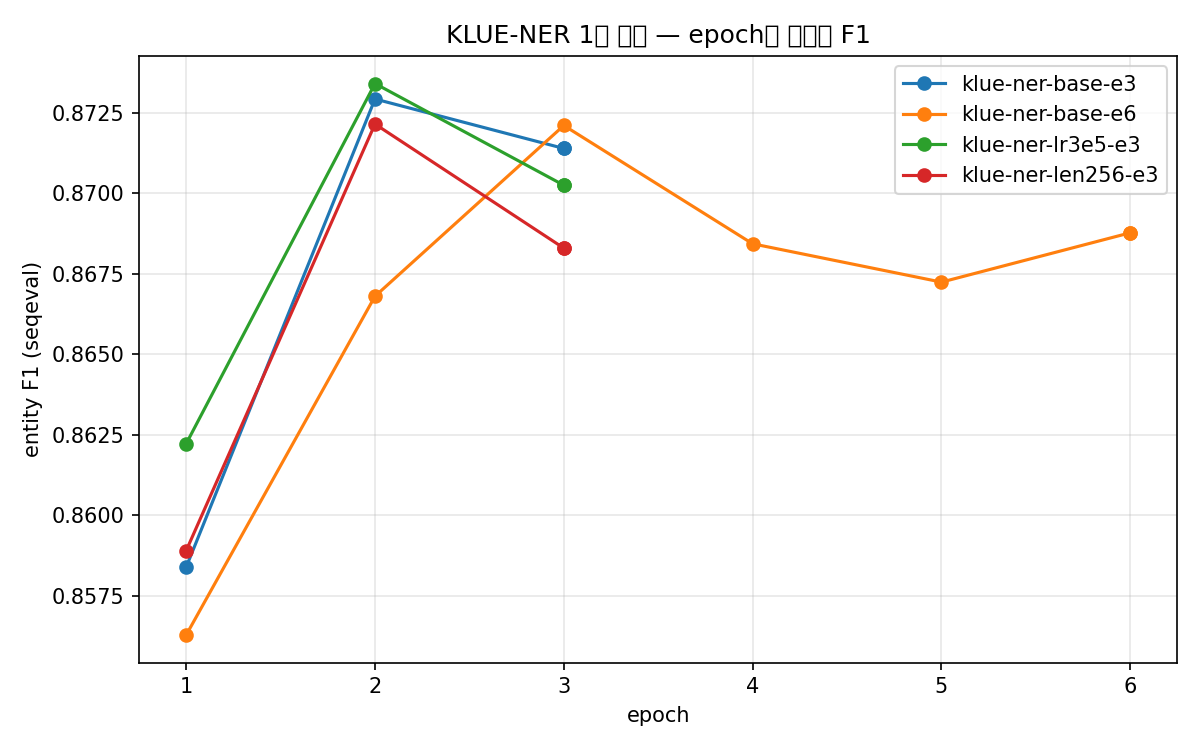
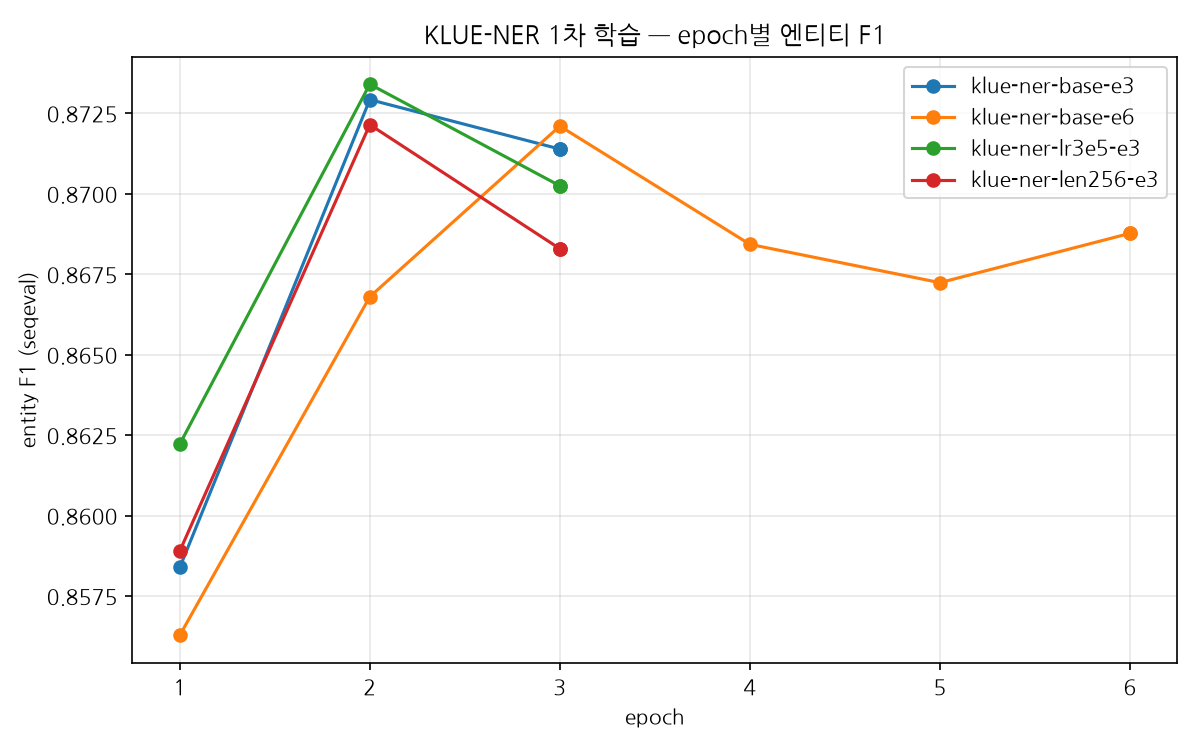
[detection-ecommerce] 공개용 주석 정리 + 실험 시각화 추가
- 코드·테스트 주석에서 일정/이력/내부 협업 언급 제거, 설계 이유만 유지
- visualize.py: 한글 폰트 설정, 하이퍼파라미터 비교·alignment 효과 그래프 추가
- figures 재생성(한글 깨짐 수정) 및 신규 2개
- .gitignore: l4/sensitive/try_predict.py 추가

diff --git a/l4/ner/visualize.py b/l4/ner/visualize.py
@@ -7,17 +7,51 @@ from __future__ import annotations
 
 import argparse
 import csv
+import glob
+import json
 from pathlib import Path
 from typing import Any
 
 import matplotlib
 
 matplotlib.use("Agg")  # 헤드리스 환경(WSL, CI)에서 화면 없이 저장만 한다
+import matplotlib.font_manager as fm
 import matplotlib.pyplot as plt
 
 from l4.ner.labels import L4_ENTITY_TYPES
 
 FIGURE_DIR = "figures"
+
+
+def _setup_korean_font() -> None:
+    """한글 라벨이 깨지지 않게 폰트를 잡는다. 없으면 경고만 하고 진행한다.
+
+    CI·WSL 기본 이미지엔 한글 폰트가 없어 제목이 두부(□)로 나온다.
+    ``apt install fonts-nanum`` 또는 ``~/.local/share/fonts`` 에 ttf를 두면 잡힌다.
+    """
+    for family in ("NanumGothic", "NanumBarunGothic", "Noto Sans CJK KR", "Malgun Gothic"):
+        try:
+            path = fm.findfont(family, fallback_to_default=False)
+        except ValueError:
+            continue
+        plt.rcParams["font.family"] = fm.FontProperties(fname=path).get_name()
+        plt.rcParams["axes.unicode_minus"] = False
+        return
+
+    patterns = (
+        "/usr/share/fonts/**/Nanum*.ttf",
+        str(Path.home() / ".local/share/fonts/*.ttf"),
+        str(Path.home() / ".fonts/*.ttf"),
+    )
+    for pattern in patterns:
+        hits = glob.glob(pattern, recursive=True)
+        if hits:
+            fm.fontManager.addfont(hits[0])
+            plt.rcParams["font.family"] = fm.FontProperties(fname=hits[0]).get_name()
+            plt.rcParams["axes.unicode_minus"] = False
+            return
+
+    print("경고: 한글 폰트 없음 — 라벨이 깨질 수 있다 (apt install fonts-nanum)")
 
 
 def _read_csv(path: Path) -> list[dict[str, str]]:
@@ -138,7 +172,109 @@ def plot_latency_tradeoff(summary: list[dict[str, str]], target: Path) -> bool:
     return True
 
 
+def plot_hparam_comparison(summary: list[dict[str, str]], target: Path) -> bool:
+    """1차 학습 4개 run의 하이퍼파라미터별 성능. 채택 run(base-e3)을 강조한다."""
+    if not summary:
+        return False
+
+    metrics = [("f1", "entity F1"), ("PS_recall", "PS recall"), ("LC_f1", "LC F1")]
+    runs = [row["run_name"] for row in summary]
+
+    figure, axes = plt.subplots(figsize=(9, 5))
+    width = 0.25
+    positions = range(len(runs))
+    for index, (key, label) in enumerate(metrics):
+        series = [_as_float(row.get(key)) or 0.0 for row in summary]
+        bars = axes.bar([p + index * width for p in positions], series, width, label=label)
+        for rect, value in zip(bars, series, strict=True):
+            axes.text(
+                rect.get_x() + rect.get_width() / 2,
+                value + 0.005,
+                f"{value:.4f}",
+                ha="center",
+                fontsize=7,
+            )
+
+    subtitles = [
+        f"{row['run_name']}\nlr={row['lr']} · ep={row['epochs']} · len={row['max_length']}"
+        for row in summary
+    ]
+    axes.set_xticks([p + width for p in positions])
+    axes.set_xticklabels(subtitles, fontsize=8)
+    axes.set_ylim(0.75, 0.95)
+    axes.set_ylabel("score")
+    axes.set_title(
+        "KLUE-NER 1차 학습 — 하이퍼파라미터별 성능\n"
+        "채택: klue-ner-base-e3 (F1 미세 손실 감수, PS recall 우선)"
+    )
+    axes.grid(axis="y", alpha=0.3)
+    axes.legend()
+    figure.tight_layout()
+    figure.savefig(target, dpi=150)
+    plt.close(figure)
+    return True
+
+
+def plot_alignment_effect(eval_path: Path, target: Path) -> bool:
+    """채택 모델에 alignment.py(조사 경계 중재) 적용 전/후 성능 비교."""
+    if not eval_path.exists():
+        return False
+    data = json.loads(eval_path.read_text(encoding="utf-8"))
+    before, after = data["before"], data["after"]
+    ceiling = data.get("ceiling_f1")
+
+    keys = [("f1", "entity F1"), ("PS_recall", "PS recall"), ("PS_f1", "PS F1"), ("LC_f1", "LC F1")]
+
+    figure, axes = plt.subplots(figsize=(9, 5))
+    width = 0.38
+    positions = range(len(keys))
+    before_vals = [before[key] for key, _ in keys]
+    after_vals = [after[key] for key, _ in keys]
+
+    b1 = axes.bar([p - width / 2 for p in positions], before_vals, width, label="적용 전")
+    b2 = axes.bar([p + width / 2 for p in positions], after_vals, width, label="적용 후")
+    for bars, vals in ((b1, before_vals), (b2, after_vals)):
+        for rect, value in zip(bars, vals, strict=True):
+            axes.text(
+                rect.get_x() + rect.get_width() / 2,
+                value + 0.004,
+                f"{value:.4f}",
+                ha="center",
+                fontsize=7,
+            )
+    for index, (key, _) in enumerate(keys):
+        delta = after[key] - before[key]
+        axes.text(
+            index,
+            max(before[key], after[key]) + 0.018,
+            f"{delta:+.4f}",
+            ha="center",
+            fontsize=8,
+            color="green" if delta >= 0 else "red",
+        )
+
+    if ceiling is not None:
+        axes.axhline(ceiling, ls="--", lw=1, color="gray")
+        axes.text(len(keys) - 0.5, ceiling + 0.002, f"평가 상한 {ceiling}", ha="right", fontsize=8)
+
+    axes.set_xticks(list(positions))
+    axes.set_xticklabels([label for _, label in keys])
+    axes.set_ylim(0.75, 1.0)
+    axes.set_ylabel("score")
+    axes.set_title(
+        "klue-ner-base-e3 + alignment.py 적용 전/후 (validation 5,000건, 재학습 없음)\n"
+        "조사 경계 중재로 PS recall 회수 — 후처리 한 단계"
+    )
+    axes.grid(axis="y", alpha=0.3)
+    axes.legend()
+    figure.tight_layout()
+    figure.savefig(target, dpi=150)
+    plt.close(figure)
+    return True
+
+
 def render(output_root: Path) -> list[Path]:
+    _setup_korean_font()
     summary = _read_csv(output_root / "summary.csv")
     run_names = [row["run_name"] for row in summary] or [
         path.name for path in sorted(output_root.glob("*/log_history.csv"))
@@ -152,6 +288,13 @@ def render(output_root: Path) -> list[Path]:
         ("f1_curves.png", lambda p: plot_f1_curves(output_root, run_names, p)),
         ("per_tag.png", lambda p: plot_per_tag(summary, p)),
         ("latency_tradeoff.png", lambda p: plot_latency_tradeoff(summary, p)),
+        ("hparam_comparison.png", lambda p: plot_hparam_comparison(summary, p)),
+        (
+            "alignment_effect.png",
+            lambda p: plot_alignment_effect(
+                output_root / "klue-ner-base-e3" / "alignment_eval.json", p
+            ),
+        ),
     ]
     for filename, draw in jobs:
         path = figure_dir / filename

diff --git a/tests/unit/l4/test_recognizers.py b/tests/unit/l4/test_recognizers.py
@@ -47,7 +47,7 @@ def test_순수_날짜는_주문번호가_아니다() -> None:
 
 def test_송장번호_앵커와_함께_매치() -> None:
     # 10자리 순수 숫자는 안 쓴다 — 사업자등록번호(하이픈 없는 10자리) 배제 패턴과
-    # 안 갈라져서 그 자체로 배제된다(L3 회신 반영, 아래 test_사업자등록번호 참고).
+    # 안 갈라져서 그 자체로 배제된다(아래 test_사업자등록번호 참고).
     results = find_tracking_number("송장번호 123456789012 확인해주세요")
 
     assert _types(results) == ["TRACKING_NUMBER"]
@@ -125,7 +125,7 @@ def test_통관고유부호_confidence_상한_1로_잘린다() -> None:
     assert results[0].confidence == 1.0
 
 
-# ── L3 회신 반영: EXCLUDE_PATTERNS (2026-09-11) ──────────────────────────
+# ── EXCLUDE_PATTERNS ──────────────────────────
 
 
 def test_유효한_주민등록번호는_배제된다() -> None:
@@ -174,7 +174,7 @@ def test_전화번호_유효성_검사(candidate: str, expected: bool) -> None:
     assert _is_phone_number(candidate) is expected
 
 
-# ── \b 유니코드 경계 버그 수정 확인 (2026-09-11) ──────────────────────────
+# ── 유니코드 경계(\b 대체) ──────────────────────────
 #
 # Python re는 한글 음절도 \w로 쳐서, "P220194827163으로"처럼 조사가 공백 없이
 # 바로 붙으면(한국어 CS 문장에서 일상적) \b가 숫자-한글 경계에서 성립하지
@@ -210,7 +210,7 @@ def test_조사가_바로_붙어도_송장번호_매치() -> None:
     assert results[0].original_value == "ABCD12345678"
 
 
-# ── ACCOUNT_NUMBER (2026-09-14, 5번째 타입) ──────────────────────────────
+# ── ACCOUNT_NUMBER ──────────────────────────────
 
 
 def test_계좌번호_3그룹_은행명_앵커와_함께_매치() -> None:
@@ -304,7 +304,7 @@ def test_긴_TLD_이메일도_배제된다() -> None:
     assert find_tracking_number("문의처: contact@shop.solutions") == []
 
 
-# ── 주소 3종 (2026-09-14) ────────────────────────────────────────────────
+# ── 주소 3종 ────────────────────────────────────────────────
 # 건물번호/"번지"·"산"/"동"·"호"·"층"이 정규식 리터럴 자체에 필수라 앵커 조회가
 # 없다 — 그 문자열이 곧 자격 조건이다.
 

diff --git a/l4/recognizers/patterns.py b/l4/recognizers/patterns.py
@@ -19,7 +19,7 @@ _R = r"(?![A-Za-z0-9])"  # 오른쪽 경계
 # "ORD-88192-KR" 같은 완전 문자 접두어는 아예 미탐지되고, "B2B-ORD-20260910
 # -8841"처럼 하이픈으로 이어진 접두어는 뒤쪽 숫자 부분("20260910-8841")만
 # 부분 매치된다. 둘 다 설계 범위 밖 — 접두어까지 넓히려면 CUSTOMER_ID와의
-# 충돌부터 재설계해야 해서 W7 실사용 빈도 확인 후 재판단.
+# 충돌부터 재설계해야 한다.
 PATTERNS: dict[str, re.Pattern[str]] = {
     "CUSTOMS_CLEARANCE_ID": re.compile(_L + r"[Pp]\d{12}" + _R),
     "ORDER_ID": re.compile(_L + r"\d{6,20}(?:-\d{1,10})?" + _R),
@@ -60,8 +60,6 @@ ORDER_ID_DATE_EXCLUDE: re.Pattern[str] = re.compile(
 #
 # 하이픈 없는 순수 숫자는 제외 — 사업자등록번호(\d{10}, EXCLUDE_PATTERNS
 # 참고)와 자릿수가 겹쳐 오탐 위험이 크다.
-# TODO: 하이픈 없는 사업자번호 실사용 빈도가 확인되면 하이픈 없는 계좌번호
-# 형식 추가 여부 결정.
 ACCOUNT_NUMBER_3GRP: re.Pattern[str] = re.compile(_L + r"\d{2,7}-\d{2,7}-\d{2,7}" + _R)
 ACCOUNT_NUMBER_2GRP: re.Pattern[str] = re.compile(_L + r"\d{3,6}-\d{6,8}" + _R)
 

diff --git a/l4/recognizers/context.py b/l4/recognizers/context.py
@@ -24,9 +24,6 @@ def has_anchor(
     문장은 "주문번호 12345" 처럼 키워드가 값 앞에 오는 게 보통이라, 앞/뒤가
     같은 거리면 앞쪽이 선택된다(앞쪽을 먼저 훑는다).
 
-    ponytail: 앞쪽 가중은 지금 "동률이면 앞" 수준이다. 뒤쪽 앵커 오탐이
-    실측(W7)에서 문제되면 뒤쪽 거리에 페널티를 주는 방식으로 올린다.
-
     Returns:
         ``(발견 여부, 가장 가까운 앵커까지 거리)``. 없으면 ``(False, window + 1)``.
     """
@@ -58,8 +55,6 @@ def score(
     앵커가 값에 붙어 있을수록(distance ↓) base_score 위로 최대 ``bonus`` 만큼
     올린다. [0, 1] 로 자른다 — confidence는 정의상 확률 범위이고, 이 값이
     그대로 L5 위험도 계산에 들어가므로 1을 넘기면 안 된다.
-
-    TODO(W7): 합성 평가셋(``adversarial.jsonl``) 실측 후 base_score·bonus 재조정.
     """
     raw = base_score + bonus * (1 - distance / window)
     return max(0.0, min(1.0, raw))

diff --git a/l4/ner/train_klue_ner.py b/l4/ner/train_klue_ner.py
@@ -2,9 +2,9 @@
 
 ``klue/bert-base`` 는 MLM으로 사전학습된 인코더일 뿐 NER 헤드가 없다.
 여기서 헤드를 새로 만들어 일반 도메인 NER 모델까지 끌어올린다.
-P3에서 이 결과물에 이커머스 CS 데이터로 2차 파인튜닝을 얹는다.
+이 결과물에 이커머스 CS 데이터로 2차 파인튜닝을 얹을 수 있다.
 
-그래서 하이퍼파라미터를 하드코딩하지 않고 전부 인자로 받는다. P3에서 탐색
+그래서 하이퍼파라미터를 하드코딩하지 않고 전부 인자로 받는다. 탐색
 도구를 붙일 때 이 함수를 그대로 호출하면 된다.
 
     uv run python -m l4.ner.train_klue_ner --run-name klue-ner-base-e3
@@ -48,7 +48,7 @@ EVAL_SPLIT = "validation"
 
 @dataclass
 class TrainConfig:
-    """P3에서 탐색 대상이 되는 값들."""
+    """탐색 대상이 되는 값들."""
 
     run_name: str
     lr: float = 5e-5

diff --git a/l4/recognizers/recognizers.py b/l4/recognizers/recognizers.py
@@ -45,9 +45,8 @@ from privacy_proxy.schemas import DetectedPII, DetectionTier
 
 _WINDOW = 25
 
-# 갈래별 confidence(임의 초기값). 동+호가 가장 구체적이고, 층 단독은
+# 갈래별 confidence. 동+호가 가장 구체적이고, 층 단독은
 # "3층짜리 건물이에요" 같은 일반 서술과 안 갈려 가장 낮다.
-# TODO(W7): 합성 평가셋 실측 후 조정.
 _ADDRESS_DETAIL_CONFIDENCE: dict[str, float] = {
     "dongho": 0.6,
     "ho": 0.45,

diff --git a/l4/ner/alignment.py b/l4/ner/alignment.py
@@ -4,7 +4,7 @@
 토큰으로 묶으면(``##은이``) 모델이 그 안에서 경계를 낼 수 없어 span이
 '송하은은'까지 늘어난다. 여기서 조사만 잘라 '송하은'으로 되돌린다.
 
-판별 규칙 (실측으로 정한 것 — 재도출 금지):
+판별 규칙:
 
 - span 마지막 문자를 담은 **토큰의 길이**로 신뢰 여부를 가른다.
   - 길이 1  → 모델이 글자 단위로 독립 판단할 수 있었다 → 그대로 둔다.

diff --git a/l4/ner/experiments.py b/l4/ner/experiments.py
@@ -1,7 +1,7 @@
 """베이스라인 실험 러너.
 
 목적은 성능 최적화가 아니라 **재현 가능한 베이스라인 확보**다. run을 늘리지
-않는다. 4개면 충분하고, 그 이상은 P3에서 도메인 데이터를 붙인 뒤에 한다.
+않는다. 4개면 충분하고, 그 이상은 도메인 데이터를 붙인 뒤에 한다.
 
     uv run python -m l4.ner.experiments --only klue-ner-base-e3
 """

diff --git a/l4/ner/__init__.py b/l4/ner/__init__.py
@@ -5,5 +5,5 @@ L4가 그 공백을 메운다.
 
 `klue/bert-base`는 NER 헤드가 없는 MLM 인코더이므로 2단계로 학습한다.
   1차: KLUE-NER 공개 데이터로 헤드 학습 (이 패키지)
-  2차: 이커머스 CS 데이터로 도메인 파인튜닝 (P3)
+  2차: 이커머스 CS 데이터로 도메인 파인튜닝
 """
